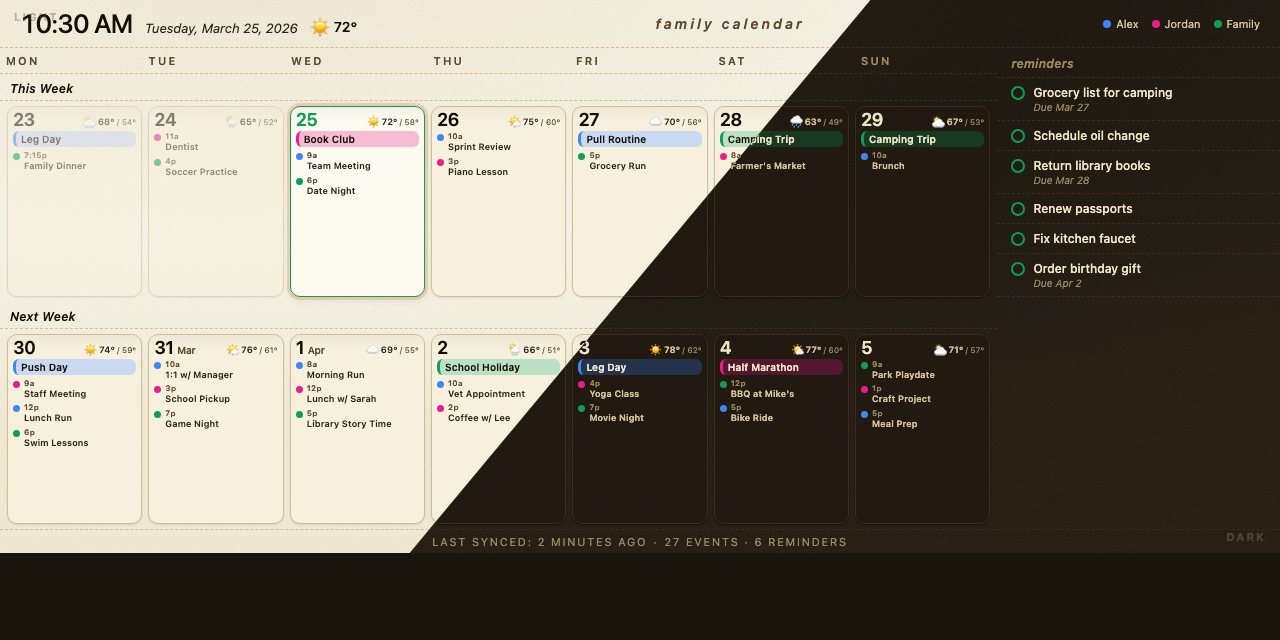
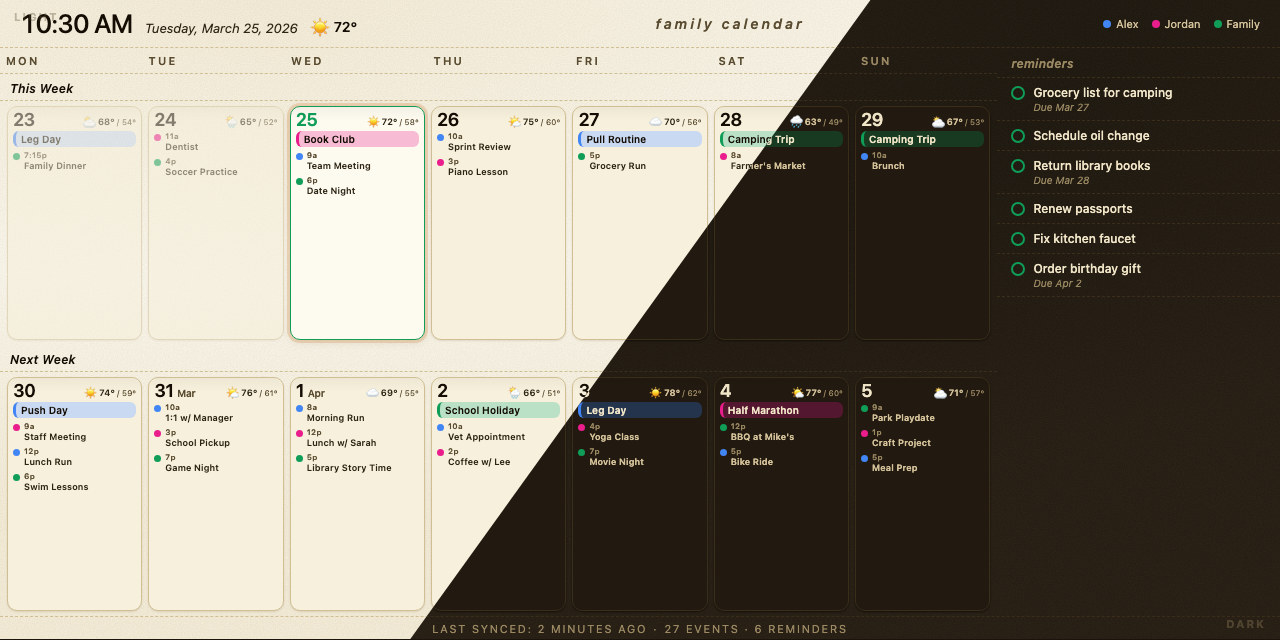
fix: fill full 640px height in social preview
Chrome headless (--headless=new) subtracts ~86px of browser chrome from
the window height when computing the CSS viewport, so 100vh ≈ 554px with
--window-size=1280,640. Fixed by rendering at 1280×726 (adding 86px) so
the CSS viewport becomes exactly 640px, then cropping the screenshot back
to 1280×640. Also switched html/body to hardcoded 1280×640 px dimensions
to bypass vh unit ambiguity, and changed theme-layer ::before grain
overlays from position:absolute pseudo-elements to explicit sizing to
avoid mix-blend-mode compositing clipping.

diff --git a/deploy/social-preview.html b/deploy/social-preview.html
@@ -6,8 +6,8 @@
 * { margin: 0; padding: 0; box-sizing: border-box; }
 
 html, body {
-  width: 100vw;
-  height: 100vh;
+  width: 1280px;
+  height: 640px;
   overflow: hidden;
   font-family: -apple-system, BlinkMacSystemFont, "Segoe UI", Roboto, sans-serif;
   position: relative;
@@ -17,7 +17,9 @@ html, body {
 /* ── Theme layers ─────────────────────────────── */
 .theme-layer {
   position: absolute;
-  inset: 0;
+  top: 0; left: 0;
+  width: 1280px;
+  height: 640px;
   display: flex;
   flex-direction: column;
   overflow: hidden;
